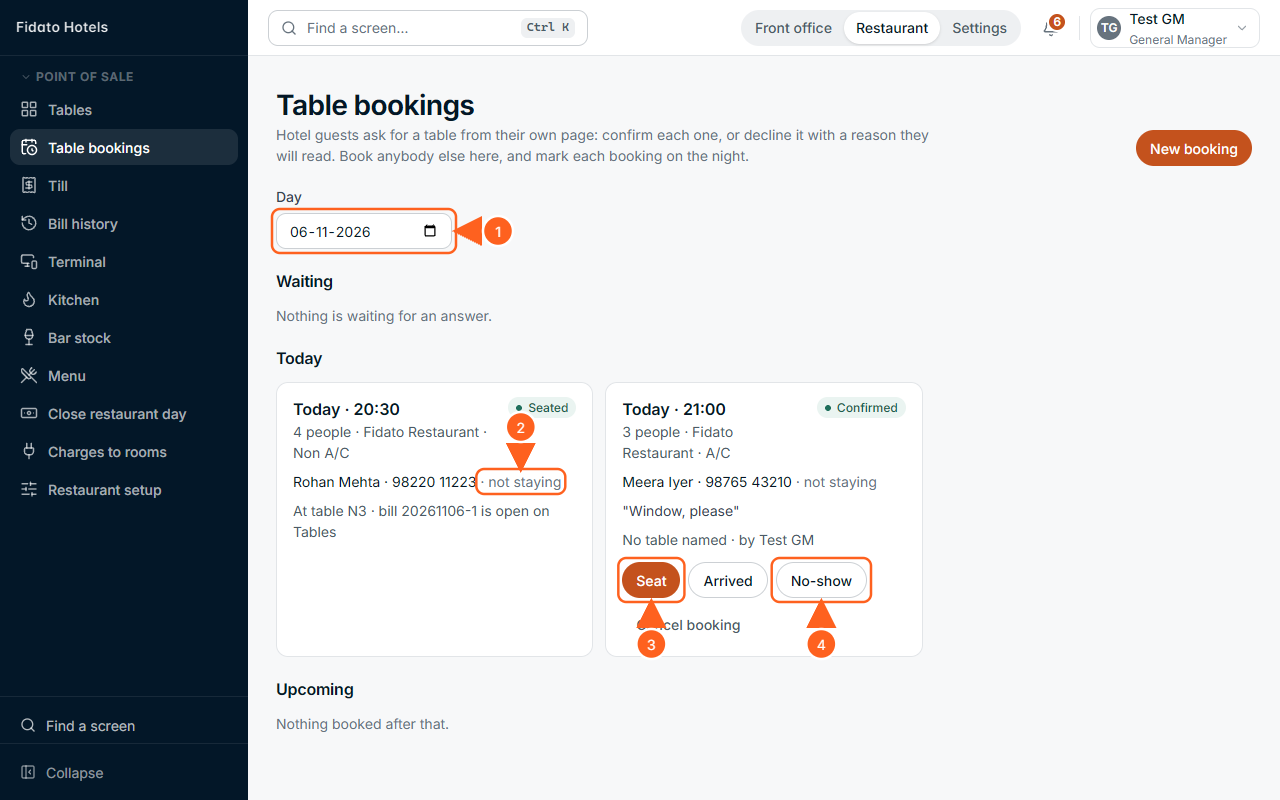
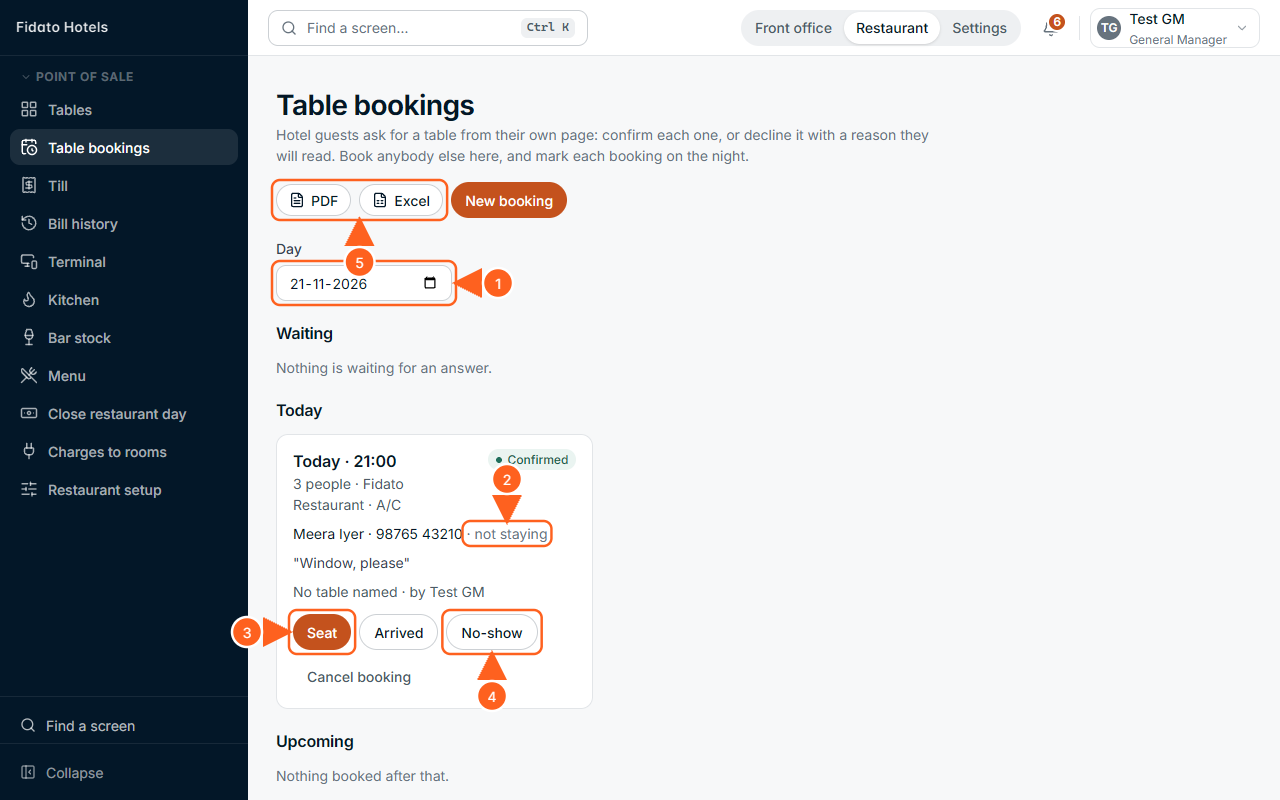
Book A8: the Menu and Table bookings pictures retaken with PDF and Excel, a current screen

diff --git a/docs/manual/chapters/a8.html b/docs/manual/chapters/a8.html
@@ -158,9 +158,9 @@
   </ul>
   <p><span class="ui">Day</span> at the top shows another day's bookings; <span class="ui">Back to today</span> returns. A hotel guest's page keeps saying <b>Confirmed</b> for a table that is arrived, seated or a no-show.</p>
   <figure class="shot" id="fig-A8-51">
-    <img src="img/A8-51.png" alt="Table bookings for today: Rohan Mehta not staying, Seated at table N3 with bill 20261106-1 open on Tables; Meera Iyer not staying, Confirmed at 21:00 in A/C, with Seat, Arrived, No-show and Cancel booking">
+    <img src="img/A8-51.png" alt="Table bookings for today, with the PDF and Excel buttons above the Day box: Meera Iyer, not staying, Confirmed at 21:00 in A/C, with Seat, Arrived, No-show and Cancel booking">
     <figcaption><b>Figure A8-51.</b> The day's bookings, on the night.</figcaption>
-    <ol class="callouts"><li>The day shown</li><li>Somebody not staying, by name and phone</li><li>Seat: opens the table's bill</li><li>No-show, once the time has come</li></ol>
+    <ol class="callouts"><li>The day shown</li><li>Somebody not staying, by name and phone</li><li>Seat: opens the table's bill</li><li>No-show, once the time has come</li><li>PDF and Excel: the day's bookings, for those who download reports</li></ol>
   </figure>
 
   <div class="box watch">
@@ -907,9 +907,9 @@
   <!-- A8.11 -->
   <h2 id="a8-11"><span class="n">A8.11</span>The menu and the add-ons list</h2>
   <figure class="shot" id="fig-A8-34">
-    <img src="img/A8-34.png" alt="The Menu screen: Dishes and Add-ons tabs, Import the menu, Add a part of the menu, a dish with variations and Sides">
+    <img src="img/A8-34.png" alt="The Menu screen: PDF and Excel buttons, Dishes, Add-ons and Profit per dish tabs, Import the menu, Add a part of the menu, a dish with variations and Sides">
     <figcaption><b>Figure A8-34.</b> The Menu.</figcaption>
-    <ol class="callouts"><li>Dishes</li><li>Add-ons: the numbered list</li><li>Import the menu from a file</li><li>Add a part of the menu (a section)</li><li>A dish's variations: sizes, quantities, options</li><li>Take a dish off for a while</li></ol>
+    <ol class="callouts"><li>Dishes</li><li>Add-ons: the numbered list</li><li>Import the menu from a file</li><li>Add a part of the menu (a section)</li><li>A dish's variations: sizes, quantities, options</li><li>Take a dish off for a while</li><li>PDF and Excel: the dishes, section by section</li></ol>
   </figure>
   <ul>
     <li><b>Prices are yours.</b> Nothing was shipped with the system. A price changed today applies to the next order; bills already printed keep the price they were sold at.</li>
